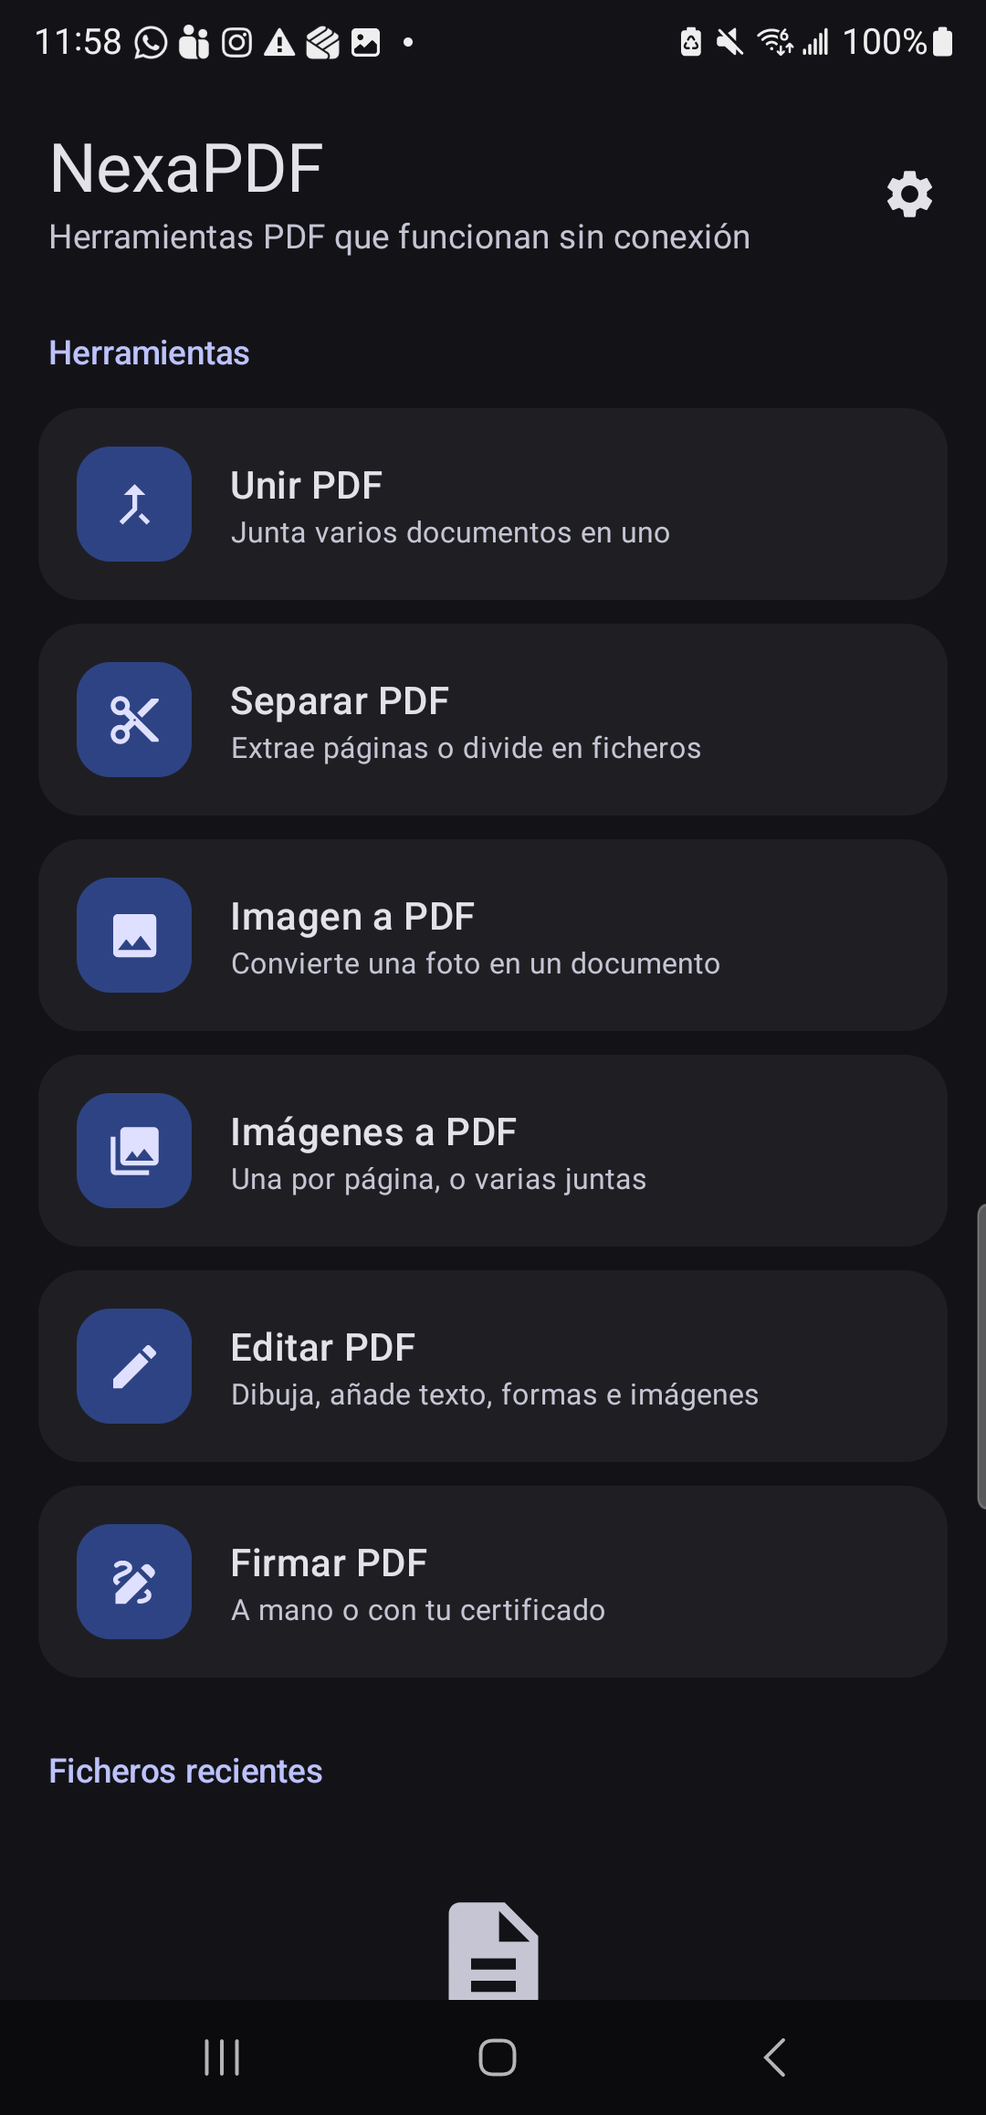
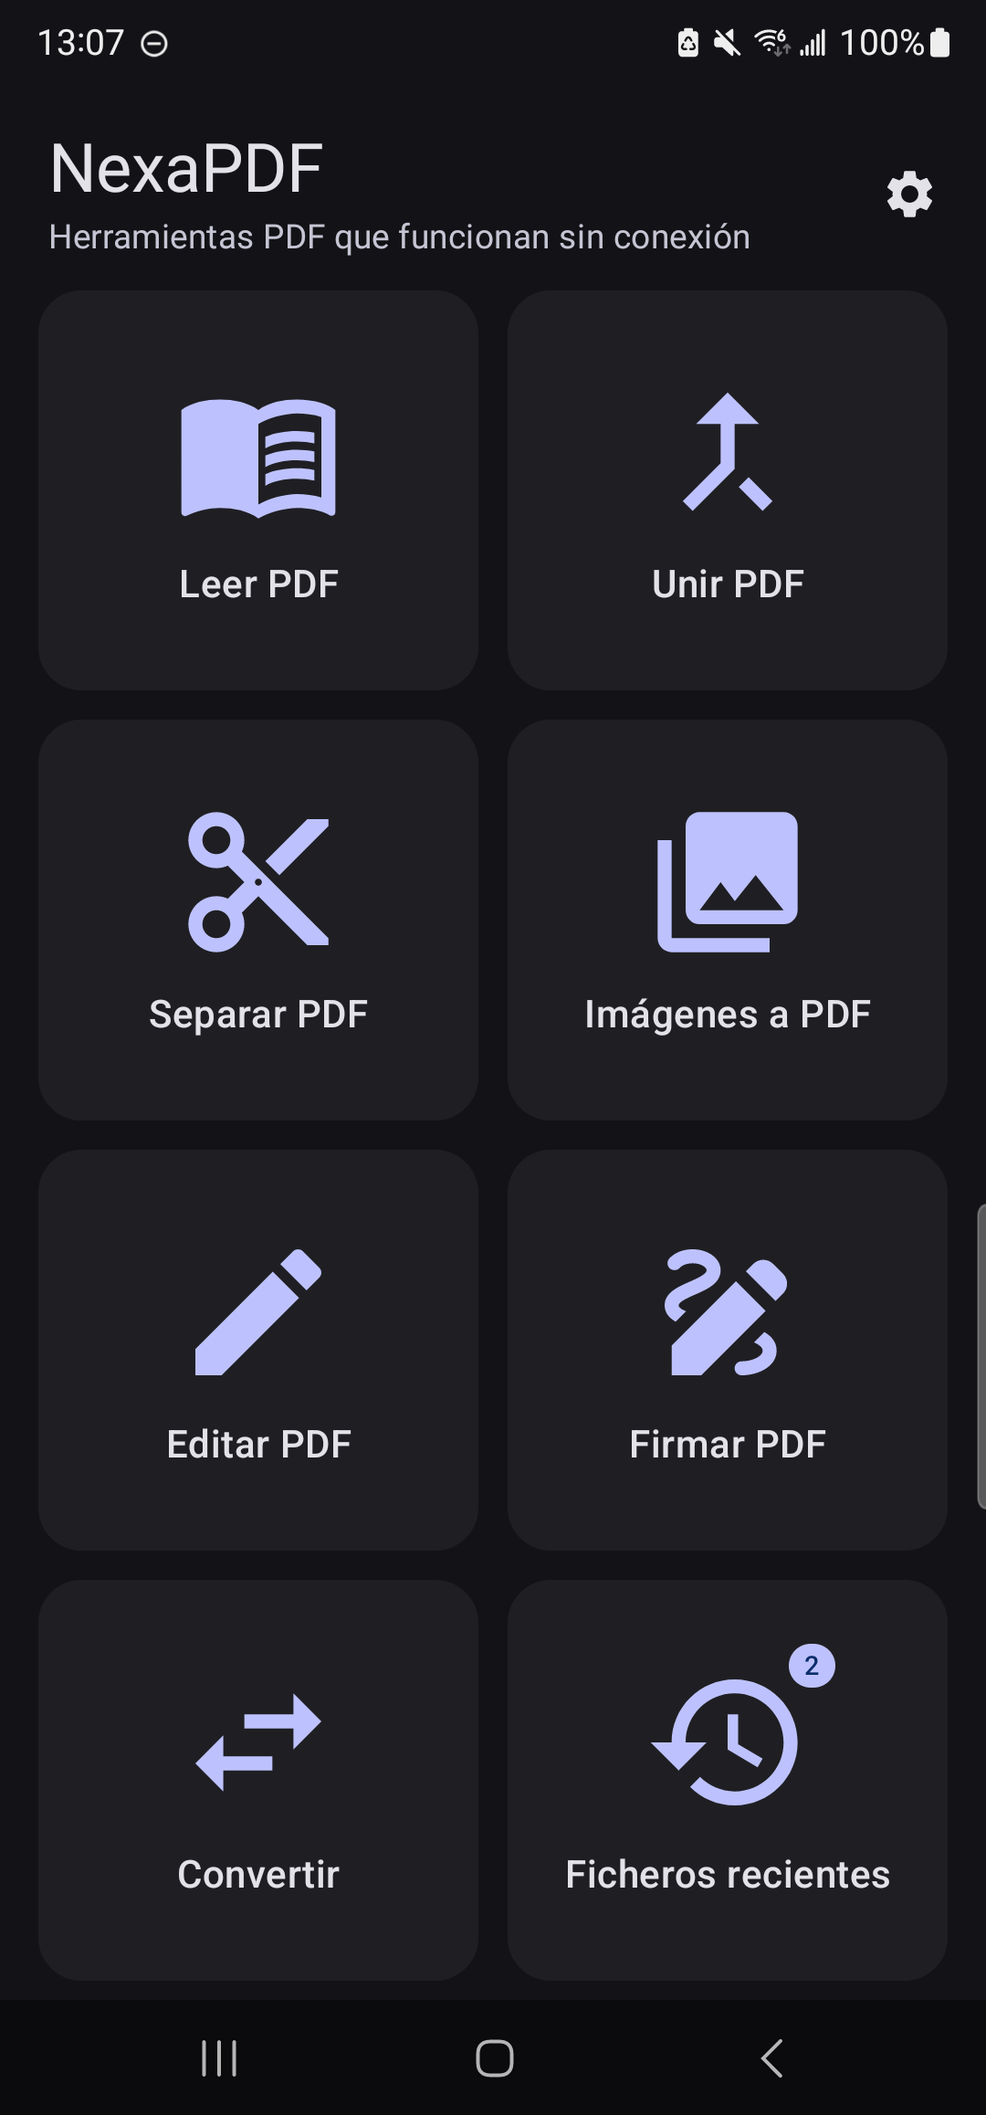
feat: 1.1.0 — plan de mejoras ejecutado y comprobado en el teléfono
Cierra el plan. Cada punto está medido en un S22 Ultra, y donde el objetivo no
se ha cumplido lo dice el propio plan en lugar de darlo por bueno.

**Lo que se ha medido**

- Arranque en frío del build de publicación: **336–379 ms** en cinco intentos.
  El objetivo era bajar de un segundo, así que no hace falta Baseline Profile.
- Desplazar 120 páginas: 16,67 % de fotogramas con retraso antes; **14,17 % en
  la primera pasada y 9,66 % volviendo sobre páginas ya vistas**, con el
  percentil 90 de 42 a 22 ms. El objetivo del 5 % no se cumple y el plan explica
  por qué: la caché sólo ahorra trabajo ya hecho, y `PdfRenderer` no rasteriza
  dos páginas del mismo documento a la vez.
- Memoria: 215 MB antes, **220 MB ahora**. La premisa de este punto era falsa:
  `PdfRenderer` sólo pinta en `ARGB_8888` y la caché retiene más de lo que
  retenía Compose sola. Son 5 MB a cambio de casi la mitad de tirones.
- Firma electrónica revalidada de punta a punta con OpenSSL sobre el APK de
  publicación: **CMS Verification successful**.

**Fallos encontrados al comprobar, que valían por sí solos el recorrido**

- El documento firmado no llegaba a la carpeta de destino ni ofrecía
  compartirse: la firma se saltaba el registro del resultado.
- Las marcas de la búsqueda caían desplazadas desde que el visor usa un pager:
  el margen se aplicaba dos veces.
- Las miniaturas salían en blanco con marca de error porque se le pedía
[…]

diff --git a/composeApp/src/androidMain/kotlin/es/ghatostudio/nexapdf/pdf/MotorPdfAndroid.kt b/composeApp/src/androidMain/kotlin/es/ghatostudio/nexapdf/pdf/MotorPdfAndroid.kt
@@ -193,22 +193,39 @@ class MotorPdfAndroid(
                         .roundToInt()
                         .coerceIn(48, MAXIMO_ANCHO_PX * 4)
 
-                    // Una miniatura con 16 bits de color pesa la mitad y sobre
-                    // papel no se distingue; la pagina grande se amplia, y ahi
-                    // el degradado de un sello o de una foto si canta.
-                    val formato = if (miniatura) Bitmap.Config.RGB_565 else Bitmap.Config.ARGB_8888
-                    val mapa = Bitmap.createBitmap(ancho, alto, formato)
+                    // Un pico de memoria mientras se parte un documento largo
+                    // hacia fallar la miniatura, y la rejilla se quedaba llena
+                    // de marcas de error para siempre porque nadie reintentaba.
+                    // Soltar lo cacheado y volver a intentarlo convierte un
+                    // apuro pasajero en un fotograma mas lento.
+                    val lienzo = try {
+                        Bitmap.createBitmap(ancho, alto, Bitmap.Config.ARGB_8888)
+                    } catch (sinSitio: OutOfMemoryError) {
+                        cacheMiniaturas.vaciar()
+                        @Suppress("UNUSED_EXPRESSION") sinSitio
+                        Bitmap.createBitmap(ancho, alto, Bitmap.Config.ARGB_8888)
+                    }
                     // PdfRenderer no pinta el fondo: sin esto, una pagina con
                     // zonas transparentes saldria en negro sobre tema oscuro.
-                    mapa.eraseColor(Color.WHITE)
-                    pagina.render(mapa, null, null, PdfRenderer.Page.RENDER_MODE_FOR_DISPLAY)
+                    lienzo.eraseColor(Color.WHITE)
+                    pagina.render(lienzo, null, null, PdfRenderer.Page.RENDER_MODE_FOR_DISPLAY)
+
+                    // `PdfRenderer` solo sabe pintar en ARGB_8888: pedirle
+                    // RGB_565 responde "Unsupported pixel format". Asi que se
+                    // pinta como quiere y la miniatura se queda con la copia de
+                    // 16 bits, que es la que se guarda y ocupa la mitad. Sobre
+                    // papel no se distingue; la pagina grande sigue entera,
+                    // porque ahi se amplia y el degradado de un sello si canta.
+                    val mapa = if (miniatura) {
+                        lienzo.copy(Bitmap.Config.RGB_565, false)?.also { lienzo.recycle() } ?: lienzo
+                    } else {
+                        lienzo
+                    }
                     val imagen = mapa.asImageBitmap()
                     if (miniatura) cacheMiniaturas.guardar(ruta, indice, ancho, mapa, imagen)
                     ResultadoPdf.Exito(imagen)
                 }
             } catch (e: OutOfMemoryError) {
-                // Si no cabe, se suelta lo cacheado y se deja que lo intente
-                // otra vez con la memoria libre en lugar de fallar en seco.
                 cacheMiniaturas.vaciar()
                 ResultadoPdf.Fallo(ErrorPdf.SIN_MEMORIA, e.message)
             } catch (e: Exception) {
@@ -217,25 +234,36 @@ class MotorPdfAndroid(
         }
     }
 
-    private fun obtenerRenderizador(ruta: String): RenderizadorAbierto? {
-        renderizadores[ruta]?.let { return it }
+    /**
+     * El renderizador del documento, abriendolo si hace falta.
+     *
+     * El mapa se toca siempre bajo [cerrojoDeMapas]. Al pasar a un cerrojo por
+     * documento, varias corrutinas empezaron a entrar aqui a la vez: el mapa se
+     * corrompia y, peor, el desalojo podia cerrar el renderizador que otra
+     * estaba usando, que es como se quedaron todas las miniaturas en blanco.
+     * Nunca se desaloja el documento que se acaba de pedir.
+     */
+    private suspend fun obtenerRenderizador(ruta: String): RenderizadorAbierto? =
+        cerrojoDeMapas.withLock {
+            renderizadores[ruta]?.let { return@withLock it }
 
-        val fichero = File(ruta)
-        if (!fichero.exists()) return null
+            val fichero = File(ruta)
+            if (!fichero.exists()) return@withLock null
 
-        val abierto = runCatching {
-            val descriptor = ParcelFileDescriptor.open(fichero, ParcelFileDescriptor.MODE_READ_ONLY)
-            RenderizadorAbierto(descriptor, PdfRenderer(descriptor))
-        }.getOrNull() ?: return null
+            val abierto = runCatching {
+                val descriptor =
+                    ParcelFileDescriptor.open(fichero, ParcelFileDescriptor.MODE_READ_ONLY)
+                RenderizadorAbierto(descriptor, PdfRenderer(descriptor))
+            }.getOrNull() ?: return@withLock null
 
-        // Cache pequena: cada documento abierto retiene un descriptor de fichero.
-        while (renderizadores.size >= MAXIMO_DOCUMENTOS_ABIERTOS) {
-            val masAntiguo = renderizadores.keys.firstOrNull() ?: break
-            renderizadores.remove(masAntiguo)?.cerrar()
+            // Cache pequena: cada documento abierto retiene un descriptor.
+            while (renderizadores.size >= MAXIMO_DOCUMENTOS_ABIERTOS) {
+                val masAntiguo = renderizadores.keys.firstOrNull { it != ruta } ?: break
+                renderizadores.remove(masAntiguo)?.cerrar()
+            }
+            renderizadores[ruta] = abierto
+            abierto
         }
-        renderizadores[ruta] = abierto
-        return abierto
-    }
 
     override suspend fun renderizarImagen(
         ruta: String,
@@ -248,7 +276,11 @@ class MotorPdfAndroid(
 
     override suspend fun cerrar(ruta: String) {
         cacheMiniaturas.olvidar(ruta)
-        cerrojoDe(ruta).withLock { renderizadores.remove(ruta)?.cerrar() }
+        // Primero se espera a que nadie este renderizando ese documento, y solo
+        // entonces se toca el mapa.
+        cerrojoDe(ruta).withLock {
+            cerrojoDeMapas.withLock { renderizadores.remove(ruta)?.cerrar() }
+        }
     }
 
     // --- Unir, separar, reorganizar ------------------------------------------
@@ -1112,10 +1144,14 @@ class MotorPdfAndroid(
  * Miniaturas ya rasterizadas, acotadas por memoria.
  *
  * Se acota por bytes y no por numero de entradas porque una miniatura de 320 px
- * pesa medio mega y una de 1080 px seis veces mas: contar entradas daria un
- * techo que no significa nada. El limite es una octava parte del monton de la
- * aplicacion, que en la practica deja sitio de sobra para lo que se ve en una
- * rejilla sin acercarse al limite del sistema.
+ * pesa un cuarto de mega y una de 1080 px seis veces mas: contar entradas daria
+ * un techo que no significa nada.
+ *
+ * El limite es una dieciseisava parte del monton. Con una octava la memoria de
+ * la aplicacion subia de 215 a 232 MB, y no servia de nada: una pantalla de
+ * miniaturas son seis, poco mas de un mega y medio, asi que con dieciseis MB
+ * caben nueve pantallas y sobra. Guardar mas solo era retener paginas que nadie
+ * iba a volver a mirar.
  */
 private class CacheMiniaturas {
 
@@ -1123,7 +1159,7 @@ private class CacheMiniaturas {
 
     private class Entrada(val imagen: ImageBitmap, val bytes: Int)
 
-    private val limiteBytes = (Runtime.getRuntime().maxMemory() / 8).toInt()
+    private val limiteBytes = (Runtime.getRuntime().maxMemory() / 16).toInt()
     private var ocupado = 0
 
     // accessOrder = true: al leer una entrada pasa al final, asi que la primera

diff --git a/composeApp/src/commonMain/kotlin/es/ghatostudio/nexapdf/ui/pantallas/CapaTour.kt b/composeApp/src/commonMain/kotlin/es/ghatostudio/nexapdf/ui/pantallas/CapaTour.kt
@@ -54,6 +54,10 @@ import es.ghatostudio.nexapdf.resources.tour_z_recientes_c
 import es.ghatostudio.nexapdf.resources.tour_z_recientes_t
 import org.jetbrains.compose.resources.StringResource
 import org.jetbrains.compose.resources.stringResource
+import androidx.compose.foundation.layout.BoxWithConstraints
+import androidx.compose.foundation.layout.WindowInsets
+import androidx.compose.foundation.layout.systemBars
+import androidx.compose.foundation.layout.windowInsetsPadding
 
 /** Los pasos del recorrido, en el orden en que se usa la aplicacion. */
 private val PASOS: List<Triple<ZonaTour, StringResource, StringResource>> = listOf(
@@ -128,17 +132,22 @@ fun CapaTour(
             )
         }
 
-        // El cartel va debajo de lo iluminado, y encima si no cabe: tapar
-        // justo lo que se esta senalando seria el colmo.
-        val altoPantalla = with(densidad) { 0f }
-        val debajo = hueco == null || hueco.bottom < 1200f
+        // El cartel se va a la mitad contraria de lo que ilumina: tapar justo
+        // lo que se esta senalando seria el colmo. Se mide contra el alto real
+        // y no contra un numero fijo, que en una pantalla corta caia encima.
+        BoxWithConstraints(modifier = Modifier.fillMaxSize()) {
+        val altoPx = with(densidad) { maxHeight.toPx() }
+        val centroDelHueco = hueco?.let { (it.top + it.bottom) / 2f } ?: 0f
+        val abajo = hueco == null || centroDelHueco < altoPx / 2f
         Column(
             modifier = Modifier
                 .fillMaxSize()
+                // Sin esto, los botones del cartel caen bajo la barra de
+                // navegacion del telefono y no se pueden pulsar.
+                .windowInsetsPadding(WindowInsets.systemBars)
                 .padding(20.dp),
-            verticalArrangement = if (debajo) Arrangement.Bottom else Arrangement.Top,
+            verticalArrangement = if (abajo) Arrangement.Bottom else Arrangement.Top,
         ) {
-            @Suppress("UNUSED_EXPRESSION") altoPantalla
             Surface(
                 shape = RoundedCornerShape(20.dp),
                 color = MaterialTheme.colorScheme.surfaceContainerHigh,
@@ -195,6 +204,7 @@ fun CapaTour(
                     }
                 }
             }
+        }
         }
     }
 }

diff --git a/composeApp/src/commonMain/kotlin/es/ghatostudio/nexapdf/ui/pantallas/PantallaFirma.kt b/composeApp/src/commonMain/kotlin/es/ghatostudio/nexapdf/ui/pantallas/PantallaFirma.kt
@@ -241,6 +241,23 @@ fun PantallaFirma(
                 )
             }
             item {
+                TextButton(
+                    onClick = { enElCertificado = true },
+                    modifier = Modifier
+                        .fillMaxWidth()
+                        .padding(horizontal = 20.dp, vertical = 4.dp)
+                        .heightIn(min = 48.dp),
+                ) {
+                    Text(stringResource(Res.string.firma_saltar_manuscrita))
+                    Spacer(Modifier.width(8.dp))
+                    Icon(
+                        Icons.AutoMirrored.Filled.ArrowForward,
+                        contentDescription = null,
+                        modifier = Modifier.size(18.dp),
+                    )
+                }
+            }
+            item {
                 LienzoFirma(
                     trazos = trazos,
                     modifier = Modifier.padding(horizontal = 20.dp, vertical = 8.dp),
@@ -266,23 +283,6 @@ fun PantallaFirma(
                         Spacer(Modifier.width(8.dp))
                         Text(stringResource(Res.string.firma_colocar))
                     }
-                }
-            }
-            item {
-                TextButton(
-                    onClick = { enElCertificado = true },
-                    modifier = Modifier
-                        .fillMaxWidth()
-                        .padding(horizontal = 20.dp, vertical = 4.dp)
-                        .heightIn(min = 48.dp),
-                ) {
-                    Text(stringResource(Res.string.firma_saltar_manuscrita))
-                    Spacer(Modifier.width(8.dp))
-                    Icon(
-                        Icons.AutoMirrored.Filled.ArrowForward,
-                        contentDescription = null,
-                        modifier = Modifier.size(18.dp),
-                    )
                 }
             }
             }

diff --git a/composeApp/src/commonMain/kotlin/es/ghatostudio/nexapdf/ui/componentes/MiniaturaPagina.kt b/composeApp/src/commonMain/kotlin/es/ghatostudio/nexapdf/ui/componentes/MiniaturaPagina.kt
@@ -31,6 +31,8 @@ import androidx.compose.ui.layout.ContentScale
 import androidx.compose.ui.unit.dp
 import es.ghatostudio.nexapdf.di.LocalContenedor
 import es.ghatostudio.nexapdf.domain.pdf.ResultadoPdf
+import es.ghatostudio.nexapdf.domain.pdf.ErrorPdf
+import kotlinx.coroutines.delay
 
 /**
  * Miniatura de una pagina, rasterizada bajo demanda.
@@ -71,7 +73,22 @@ fun MiniaturaPagina(
         )
         when (resultado) {
             is ResultadoPdf.Exito -> imagen = resultado.valor
-            is ResultadoPdf.Fallo -> fallo = true
+            // Falta de memoria es un apuro del momento, no un documento roto:
+            // se vuelve a pedir una vez antes de dar la pagina por perdida.
+            is ResultadoPdf.Fallo -> if (resultado.causa == ErrorPdf.SIN_MEMORIA) {
+                delay(300)
+                when (val reintento = contenedor.motorPdf.renderizarPagina(
+                    ruta = ruta,
+                    indice = indice,
+                    anchoPx = anchoPx,
+                    miniatura = true,
+                )) {
+                    is ResultadoPdf.Exito -> imagen = reintento.valor
+                    is ResultadoPdf.Fallo -> fallo = true
+                }
+            } else {
+                fallo = true
+            }
         }
     }
 

diff --git a/composeApp/src/commonMain/kotlin/es/ghatostudio/nexapdf/ui/NexaPdfApp.kt b/composeApp/src/commonMain/kotlin/es/ghatostudio/nexapdf/ui/NexaPdfApp.kt
@@ -1113,8 +1113,13 @@ private fun ContenidoApp(
                         estado.terminarTrabajo()
                         when (resultado) {
                             is ResultadoPdf.Exito -> {
-                                estado.registrarUsoReal()
-                                refrescarRecientes()
+                                // Por aqui pasaba de largo el registro del
+                                // resultado: el documento firmado se quedaba en
+                                // la carpeta privada, no llegaba a la que el
+                                // usuario habia elegido y tampoco se ofrecia
+                                // compartirlo. Justo lo que uno quiere hacer
+                                // nada mas firmar algo.
+                                registrarResultado(resultado.valor)
                                 estado.avisar(getString(Res.string.firma_hecha))
                                 abrirDocumentos(listOf(resultado.valor))
                                 mostrarResultado(

diff --git a/composeApp/src/commonMain/kotlin/es/ghatostudio/nexapdf/ui/pantallas/PantallaVisor.kt b/composeApp/src/commonMain/kotlin/es/ghatostudio/nexapdf/ui/pantallas/PantallaVisor.kt
@@ -724,9 +724,11 @@ private fun CapaResaltados(
 ) {
     val colorActiva = MaterialTheme.colorScheme.primary
     Canvas(
+        // Sin margen propio: el hueco donde va la pagina ya lo trae puesto. Al
+        // reescribir el visor con el pager, este margen se sumaba al de fuera y
+        // las marcas caian un poco a la derecha y por debajo de la palabra.
         modifier = Modifier
             .fillMaxSize()
-            .padding(12.dp)
             .graphicsLayer {
                 scaleX = escala
                 scaleY = escala

diff --git a/docs/PLAN-MEJORAS.md b/docs/PLAN-MEJORAS.md
@@ -1,6 +1,7 @@
 # Plan de mejoras antes de publicar
 
-Estado: **propuesta**. Fecha: 4 de septiembre de 2026.
+Estado: **ejecutado**, con los resultados medidos anotados en cada punto.
+Fecha: 4 de septiembre de 2026.
 
 Lo que sigue sale de recorrer la aplicación entera en un Samsung S22 Ultra
 (Android 13, `SM-S908U`) pantalla a pantalla, y de medir lo que se podía medir
@@ -67,6 +68,21 @@ De ahí el 16,67 % de fotogramas con retraso con la GPU ociosa.
 **Cómo comprobarlo:** repetir los seis desplazamientos sobre las 120 páginas.
 Objetivo: **< 5 % de fotogramas con retraso y percentil 99 por debajo de 40 ms**.
 
+**Resultado medido.** El objetivo **no se cumple**, y conviene decir por qué en
+lugar de dejarlo en «mejorado»:
+
+| | Antes | Después |
+|---|---|---|
+| Primera pasada, páginas nuevas | 16,67 % · p90 42 ms | 14,17 % · p90 32 ms |
+| Volviendo sobre páginas ya vistas | — | **9,66 % · p90 22 ms** |
+
+La caché sólo puede ahorrar trabajo que ya se hizo, así que en la primera pasada
+apenas cambia nada: esas páginas hay que rasterizarlas sí o sí. Y no se pueden
+rasterizar en paralelo, porque `PdfRenderer` no admite dos páginas abiertas a la
+vez **del mismo documento**; el cerrojo por documento ayuda cuando hay varios
+abiertos, no dentro de uno. Bajar del 5 % en la primera pasada pide otra cosa:
+adelantarse y preparar la pantalla siguiente mientras no se desplaza.
+
 ### R2 · 215 MB de memoria con un documento largo abierto
 
 69 MB son bitmaps. Todas las miniaturas se piden en `ARGB_8888` (4 bytes por
@@ -81,6 +97,18 @@ píxel) aunque un PDF de texto no tenga transparencia.
 
 **Cómo comprobarlo:** `dumpsys meminfo` con las 120 páginas abiertas.
 Objetivo: **por debajo de 150 MB de PSS**.
+
+**Resultado medido: el objetivo no se cumple y la premisa era falsa.**
+`PdfRenderer.render` sólo acepta `ARGB_8888`; pedirle `RGB_565` responde
+«Unsupported pixel format». Se pinta como él quiere y la miniatura se queda con
+una copia de 16 bits, que pesa la mitad, pero la caché retiene más páginas de
+las que Compose retenía sola. Con el límite en una octava parte del montón la
+memoria subía de 215 a 232 MB; con una dieciseisava se queda en **220 MB**, con
+73 MB de gráficos frente a los 69 de partida.
+
+O sea: se cambian **5 MB de memoria por casi la mitad de tirones al volver sobre
+lo ya visto**. Es un intercambio razonable, pero es un intercambio, no la mejora
+en los dos frentes que este punto daba por hecha.
 
 ### R3 · La búsqueda se lanza en cada tecla y no se puede cancelar
 

diff --git a/CHANGELOG.md b/CHANGELOG.md
@@ -5,7 +5,7 @@ Todos los cambios reseñables de NexaPDF se documentan en este fichero.
 El formato sigue [Keep a Changelog](https://keepachangelog.com/es-ES/1.1.0/) y el
 proyecto se versiona con [SemVer](https://semver.org/lang/es/).
 
-## [No publicado]
+## [1.1.0] — 2026-09-04
 
 ### Añadido
 
@@ -80,6 +80,8 @@ proyecto se versiona con [SemVer](https://semver.org/lang/es/).
   parar.
 - **La goma escribe un trazo, no un rectángulo por punto.** Un borrado a mano
   alzada dejaba cientos de operaciones en el PDF.
+- **Arranque en frío de 350 ms** en el build de publicación, medido sobre cinco
+  intentos. No hace falta Baseline Profile.
 
 ### Corregido
 
@@ -119,6 +121,16 @@ proyecto se versiona con [SemVer](https://semver.org/lang/es/).
   sabía cuál era la tercera.
 - El menú de ordenar los recientes no marcaba cuál estaba puesto.
 - El diálogo de añadir texto tenía el campo y el deslizador sin rótulo.
+- **El documento firmado no llegaba a la carpeta de destino** ni ofrecía
+  compartirse: la firma se saltaba el registro del resultado, que sí hacían
+  unir, editar y extraer.
+- Las marcas de la búsqueda caían desplazadas respecto a la palabra desde que el
+  visor pasó a usar un pager: el margen se aplicaba dos veces.
+- El botón de saltar la firma manuscrita quedaba debajo del lienzo de dibujo,
+  que se traga el desplazamiento, así que no había forma de llegar a él.
+- Las miniaturas se quedaban en blanco con una marca de error: `PdfRenderer`
+  sólo pinta en `ARGB_8888` y se le estaba pidiendo `RGB_565`. Ahora se pinta
+  como él quiere y la miniatura se guarda como copia de 16 bits.
 - **Importar ajustes no funcionaba**: Android da a la extensión `.bak` un tipo
   propio que el selector no aceptaba, así que la copia salía atenuada y no
   había forma de elegirla. El filtro de tipos no aportaba seguridad, porque la
